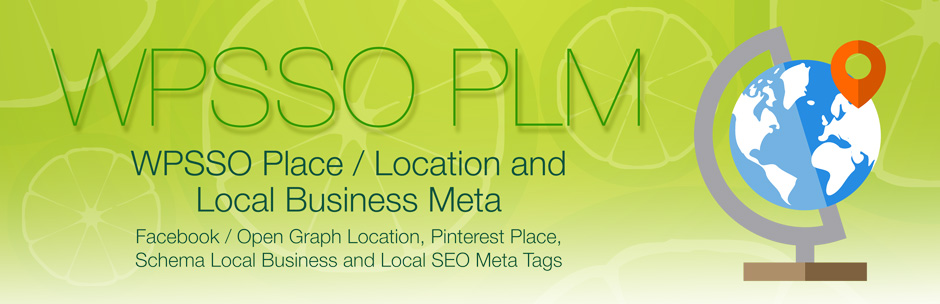
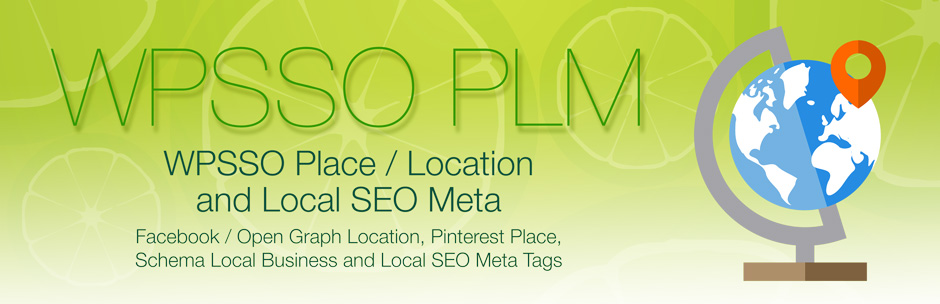
non-essential support files (documentation and assets)

diff --git a/index.html b/index.html
@@ -25,10 +25,10 @@
         </ul>
       </header>
       <section>
-<h1>Place / Location and Local Business Meta</h1><h3>WPSSO Add-on</h3>
+<h1>Place / Location and Local SEO Meta</h1><h3>WPSSO Add-on</h3>
 
 <table>
-<tr><th align="right" valign="top" nowrap>Plugin Name</th><td>WPSSO Place / Location and Local Business Meta</td></tr>
+<tr><th align="right" valign="top" nowrap>Plugin Name</th><td>WPSSO Place / Location and Local SEO Meta</td></tr>
 <tr><th align="right" valign="top" nowrap>Summary</th><td>Facebook / Open Graph Location, Pinterest Place, Schema Local Business and Local SEO meta tags.</td></tr>
 <tr><th align="right" valign="top" nowrap>Stable Version</th><td>4.3.2</td></tr>
 <tr><th align="right" valign="top" nowrap>Requires At Least</th><td>WordPress 3.9</td></tr>
@@ -46,7 +46,7 @@
 
 <p>Include Pinterest Rich Pin <em>Place</em>, Facebook / Open Graph <em>Location</em>, and Google <em>Local Business / Local SEO</em> meta tags in your webpages.</p>
 
-<p><strong>The WPSSO Place / Location and Local Business Meta (aka WPSSO PLM) add-on can be used in two different ways:</strong></p>
+<p><strong>The WPSSO Place / Location and Local SEO Meta (aka WPSSO PLM) add-on can be used in two different ways:</strong></p>
 
 <ul>
 <li><p>To provide location information for an Organization, which in turn may be related to the content (ie. the content publisher, event organizer, etc.).</p></li>
@@ -115,7 +115,7 @@
 
 <h3>WPSSO Core Plugin Required</h3>
 
-<p>WPSSO Place / Location and Local Business Meta (aka WPSSO PLM) is an add-on for the <a href="https://wordpress.org/plugins/wpsso/">WPSSO Core plugin</a>.</p>
+<p>WPSSO Place / Location and Local SEO Meta (aka WPSSO PLM) is an add-on for the <a href="https://wordpress.org/plugins/wpsso/">WPSSO Core plugin</a>.</p>
 
 
 <h2>Installation</h2>
